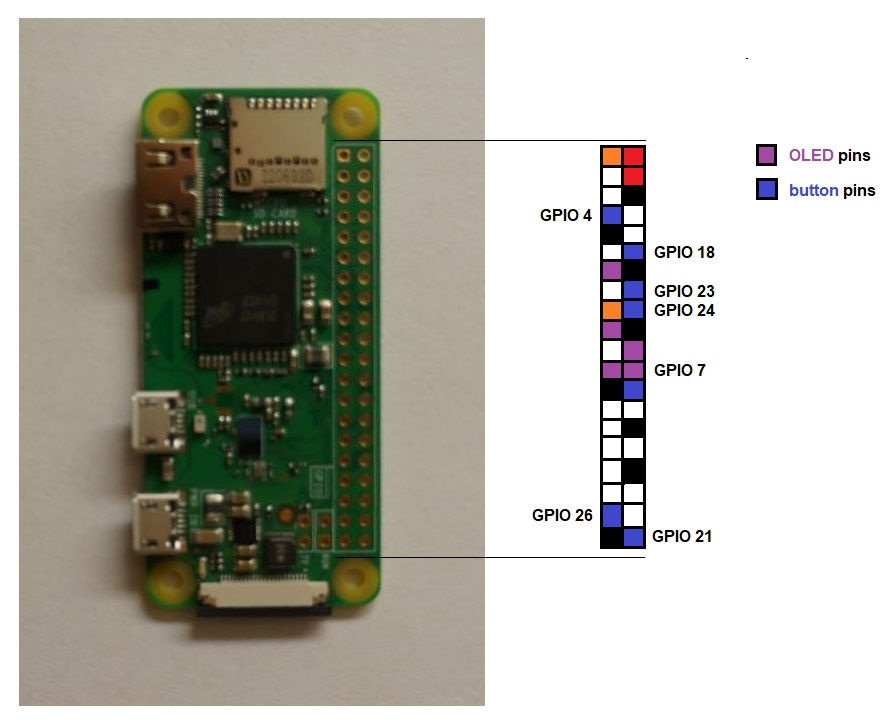
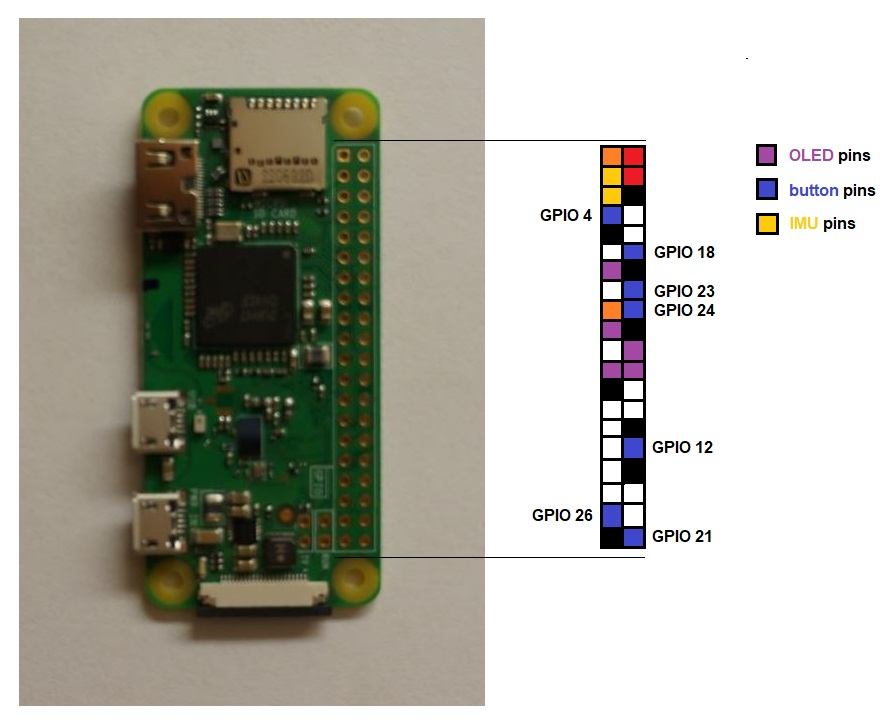
update mappings again

diff --git a/DEVLOG.md b/DEVLOG.md
@@ -158,6 +158,12 @@ I'll move GPIO 1 to 7 (next to it)
 
 I'll move 22 to 18 (center)
 
+11:41 AM
+
+oh no... I forgot GPIO 7 was problematic can't use that one
+
+
+
 ---
 
 12/15/2023
